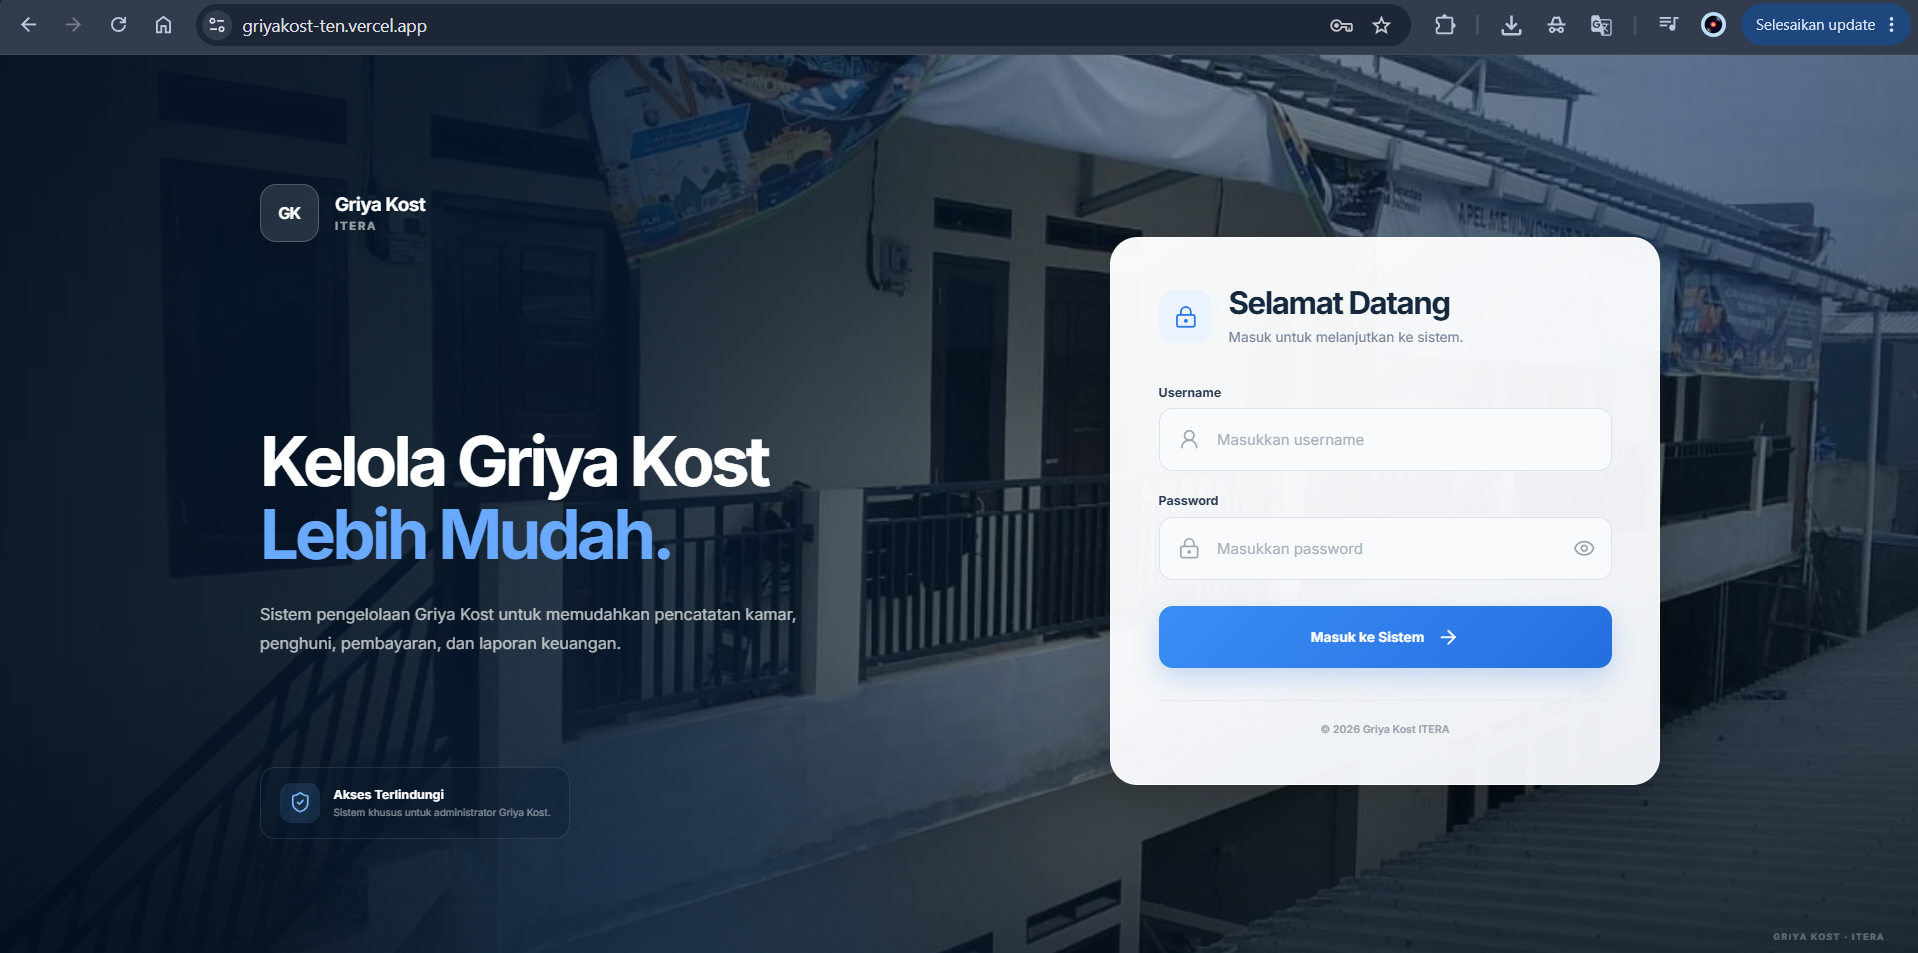
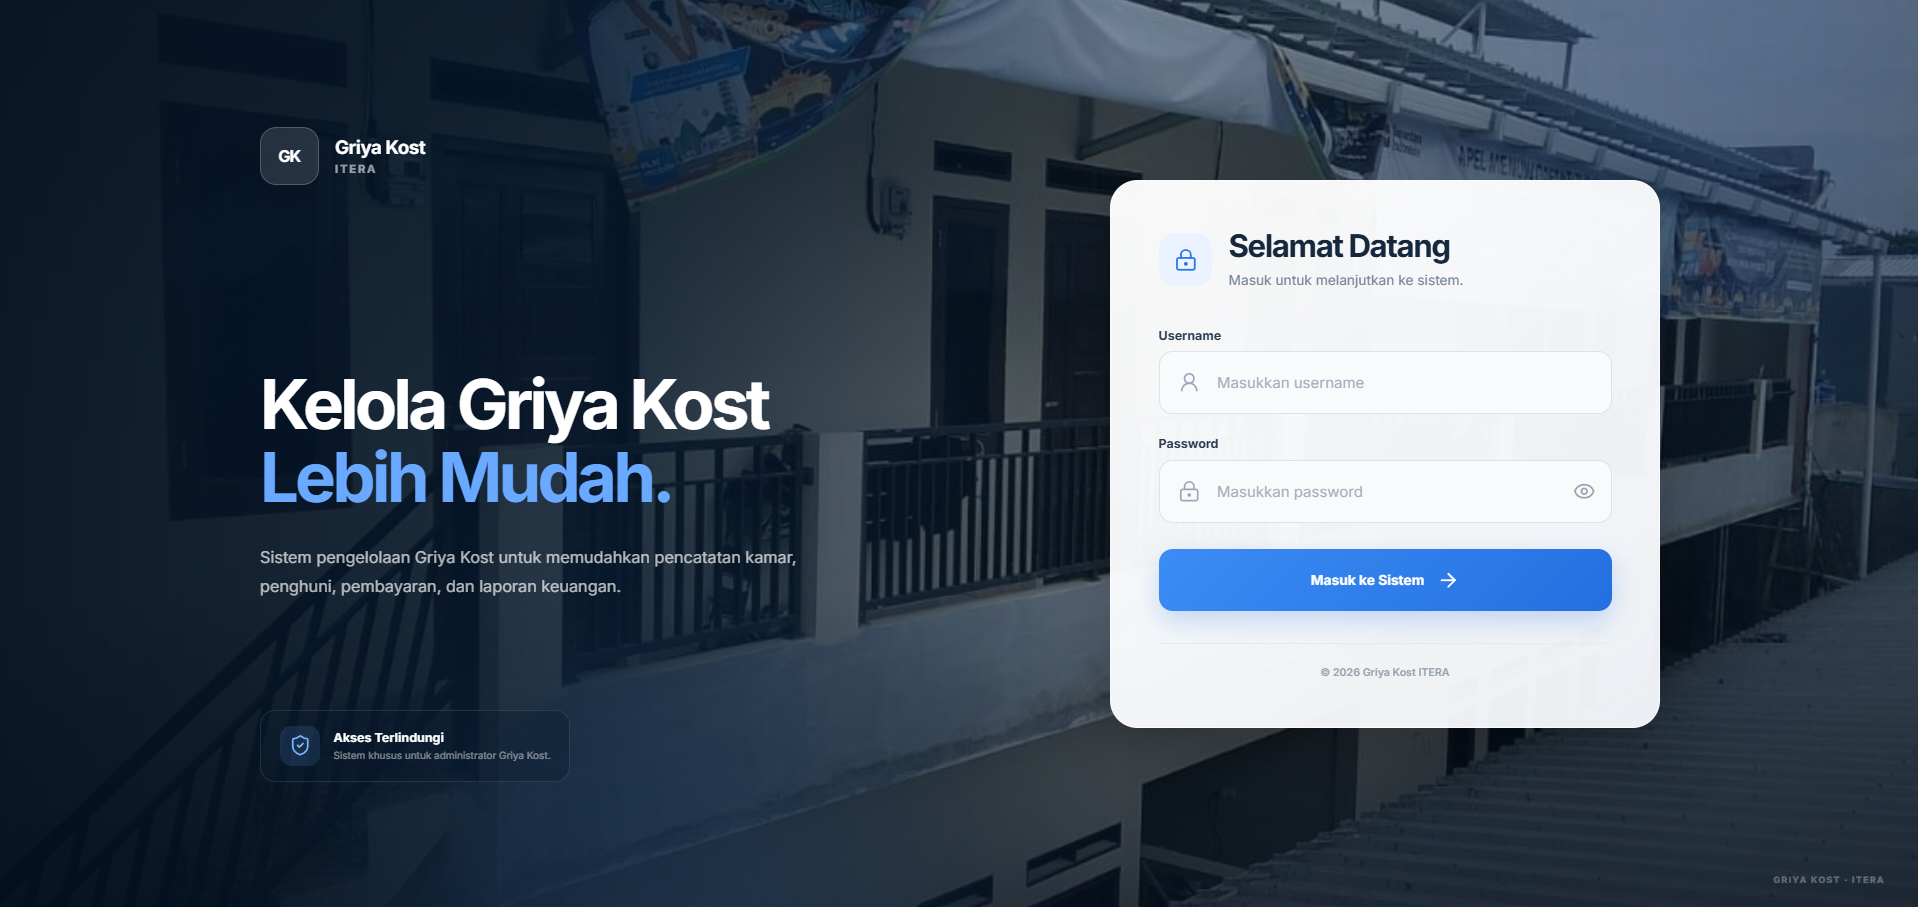
Update deskripsi experience

diff --git a/src/components/Experience.jsx b/src/components/Experience.jsx
@@ -22,7 +22,7 @@ function Experience() {
       employment: 'Full-time',
       mode: 'On-site',
       description:
-        'Membantu dosen dalam mendampingi mahasiswa selama perkuliahan Multimedia, termasuk kegiatan praktikum, pendampingan pembelajaran, dan tugas akademik.',
+        'Assisted lecturers in supporting students throughout the Multimedia course, including practical sessions, learning activities, and academic assignments.',
       tags: ['Teaching', 'Multimedia', 'Academic'],
       icon: <FiBookOpen />,
       image: sertifikatmulmed,
@@ -38,7 +38,7 @@ function Experience() {
       employment: 'Part-time',
       mode: 'Hybrid',
       description:
-        'Mengelola dokumentasi acara secara menyeluruh sebagai fotografer dan videografer untuk program pengabdian masyarakat dan kesejahteraan sosial. Mengedit konten video serta merancang aset visual untuk laporan organisasi, publikasi, dan kanal media sosial resmi.',
+        'Handled event documentation as a photographer and videographer for community service and social welfare programs. Edited video content and created visual assets for organizational reports, publications, and official social media channels.',
       tags: ['Photography', 'Video Editing', 'Digital Production'],
       icon: <FiCamera />,
       image: fotographer,
@@ -54,14 +54,14 @@ function Experience() {
       employment: 'Apprenticeship',
       mode: 'On-site',
       description:
-        'Mendukung proses administrasi digital dan kegiatan pelaporan pekerjaan lapangan melalui sistem internal PLN, sekaligus berkontribusi dalam pengelolaan data terstruktur, dokumentasi, dan inisiatif digitalisasi.',
+        'Supported digital administrative processes and field work reporting through PLN’s internal systems, while contributing to structured data management, documentation, and digitalization initiatives.',
       tags: ['Internship', 'Information Systems', 'Digitalization'],
       icon: <FiBriefcase />,
       image: sertifikatkp,
       imageAlt: 'PT PLN Internship Certificate',
     },
   ]
-
+  
   return (
     <section id="experience" className="experience-section">
       <div className="container">
